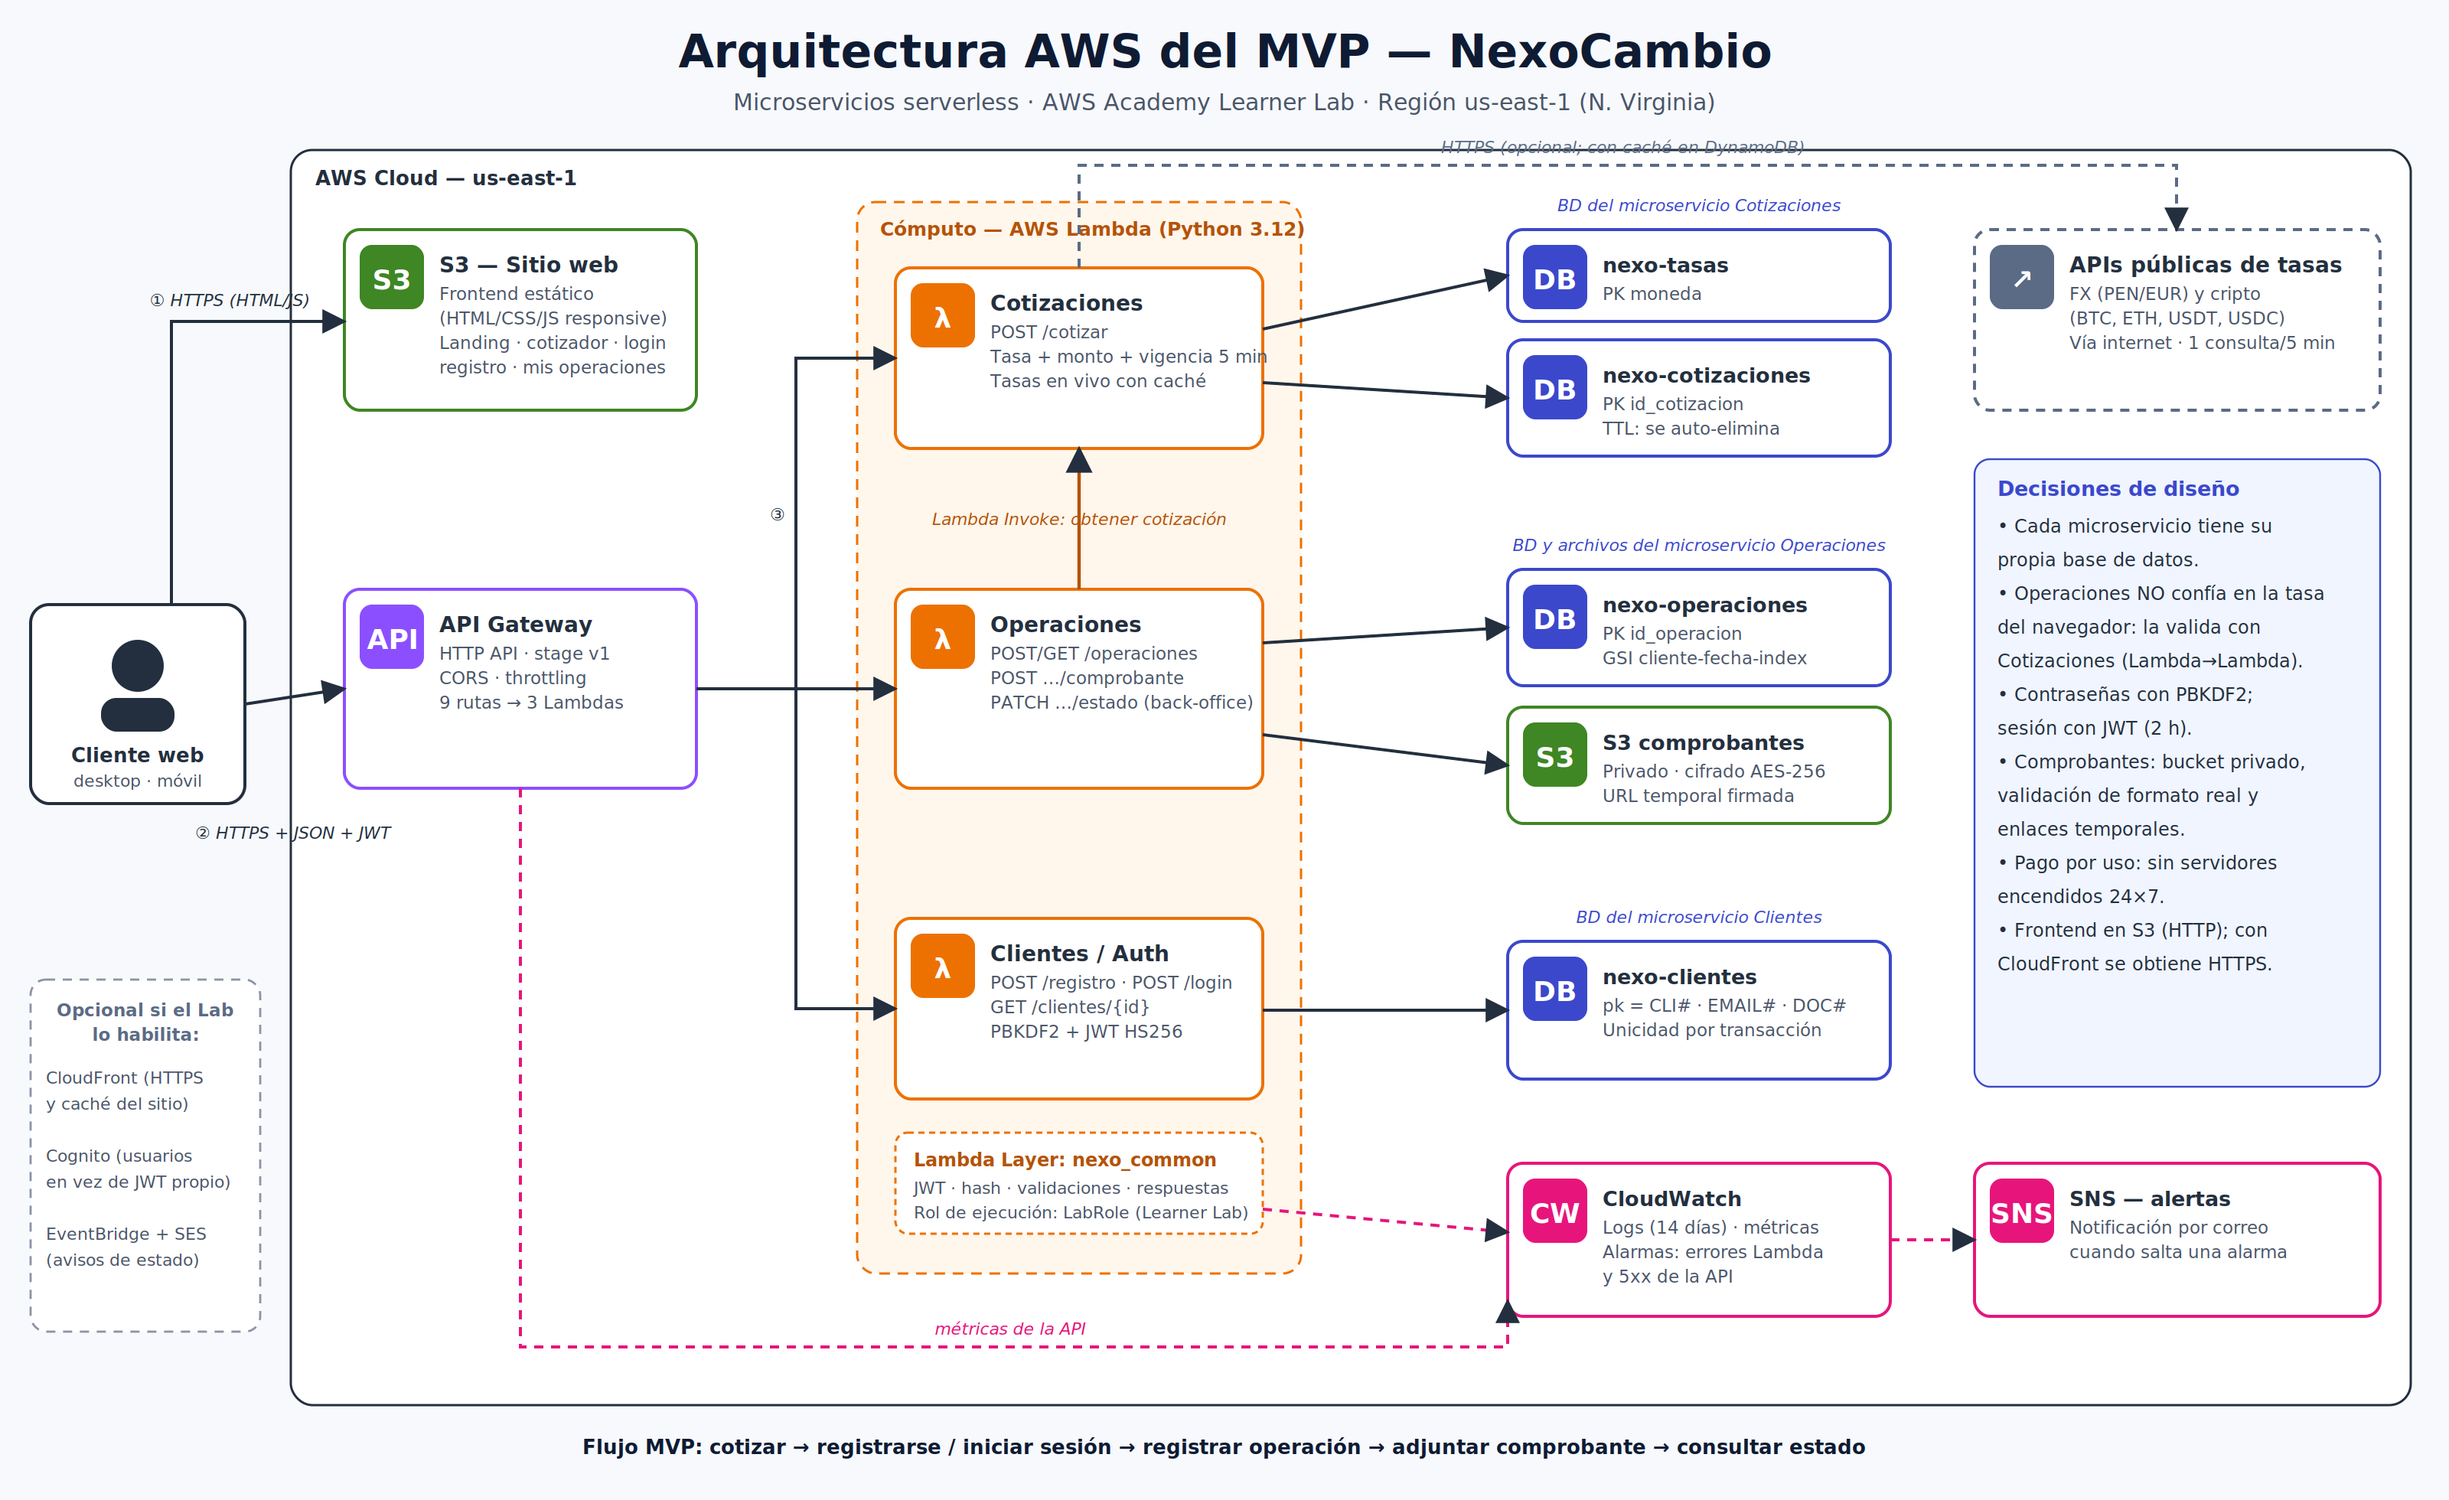
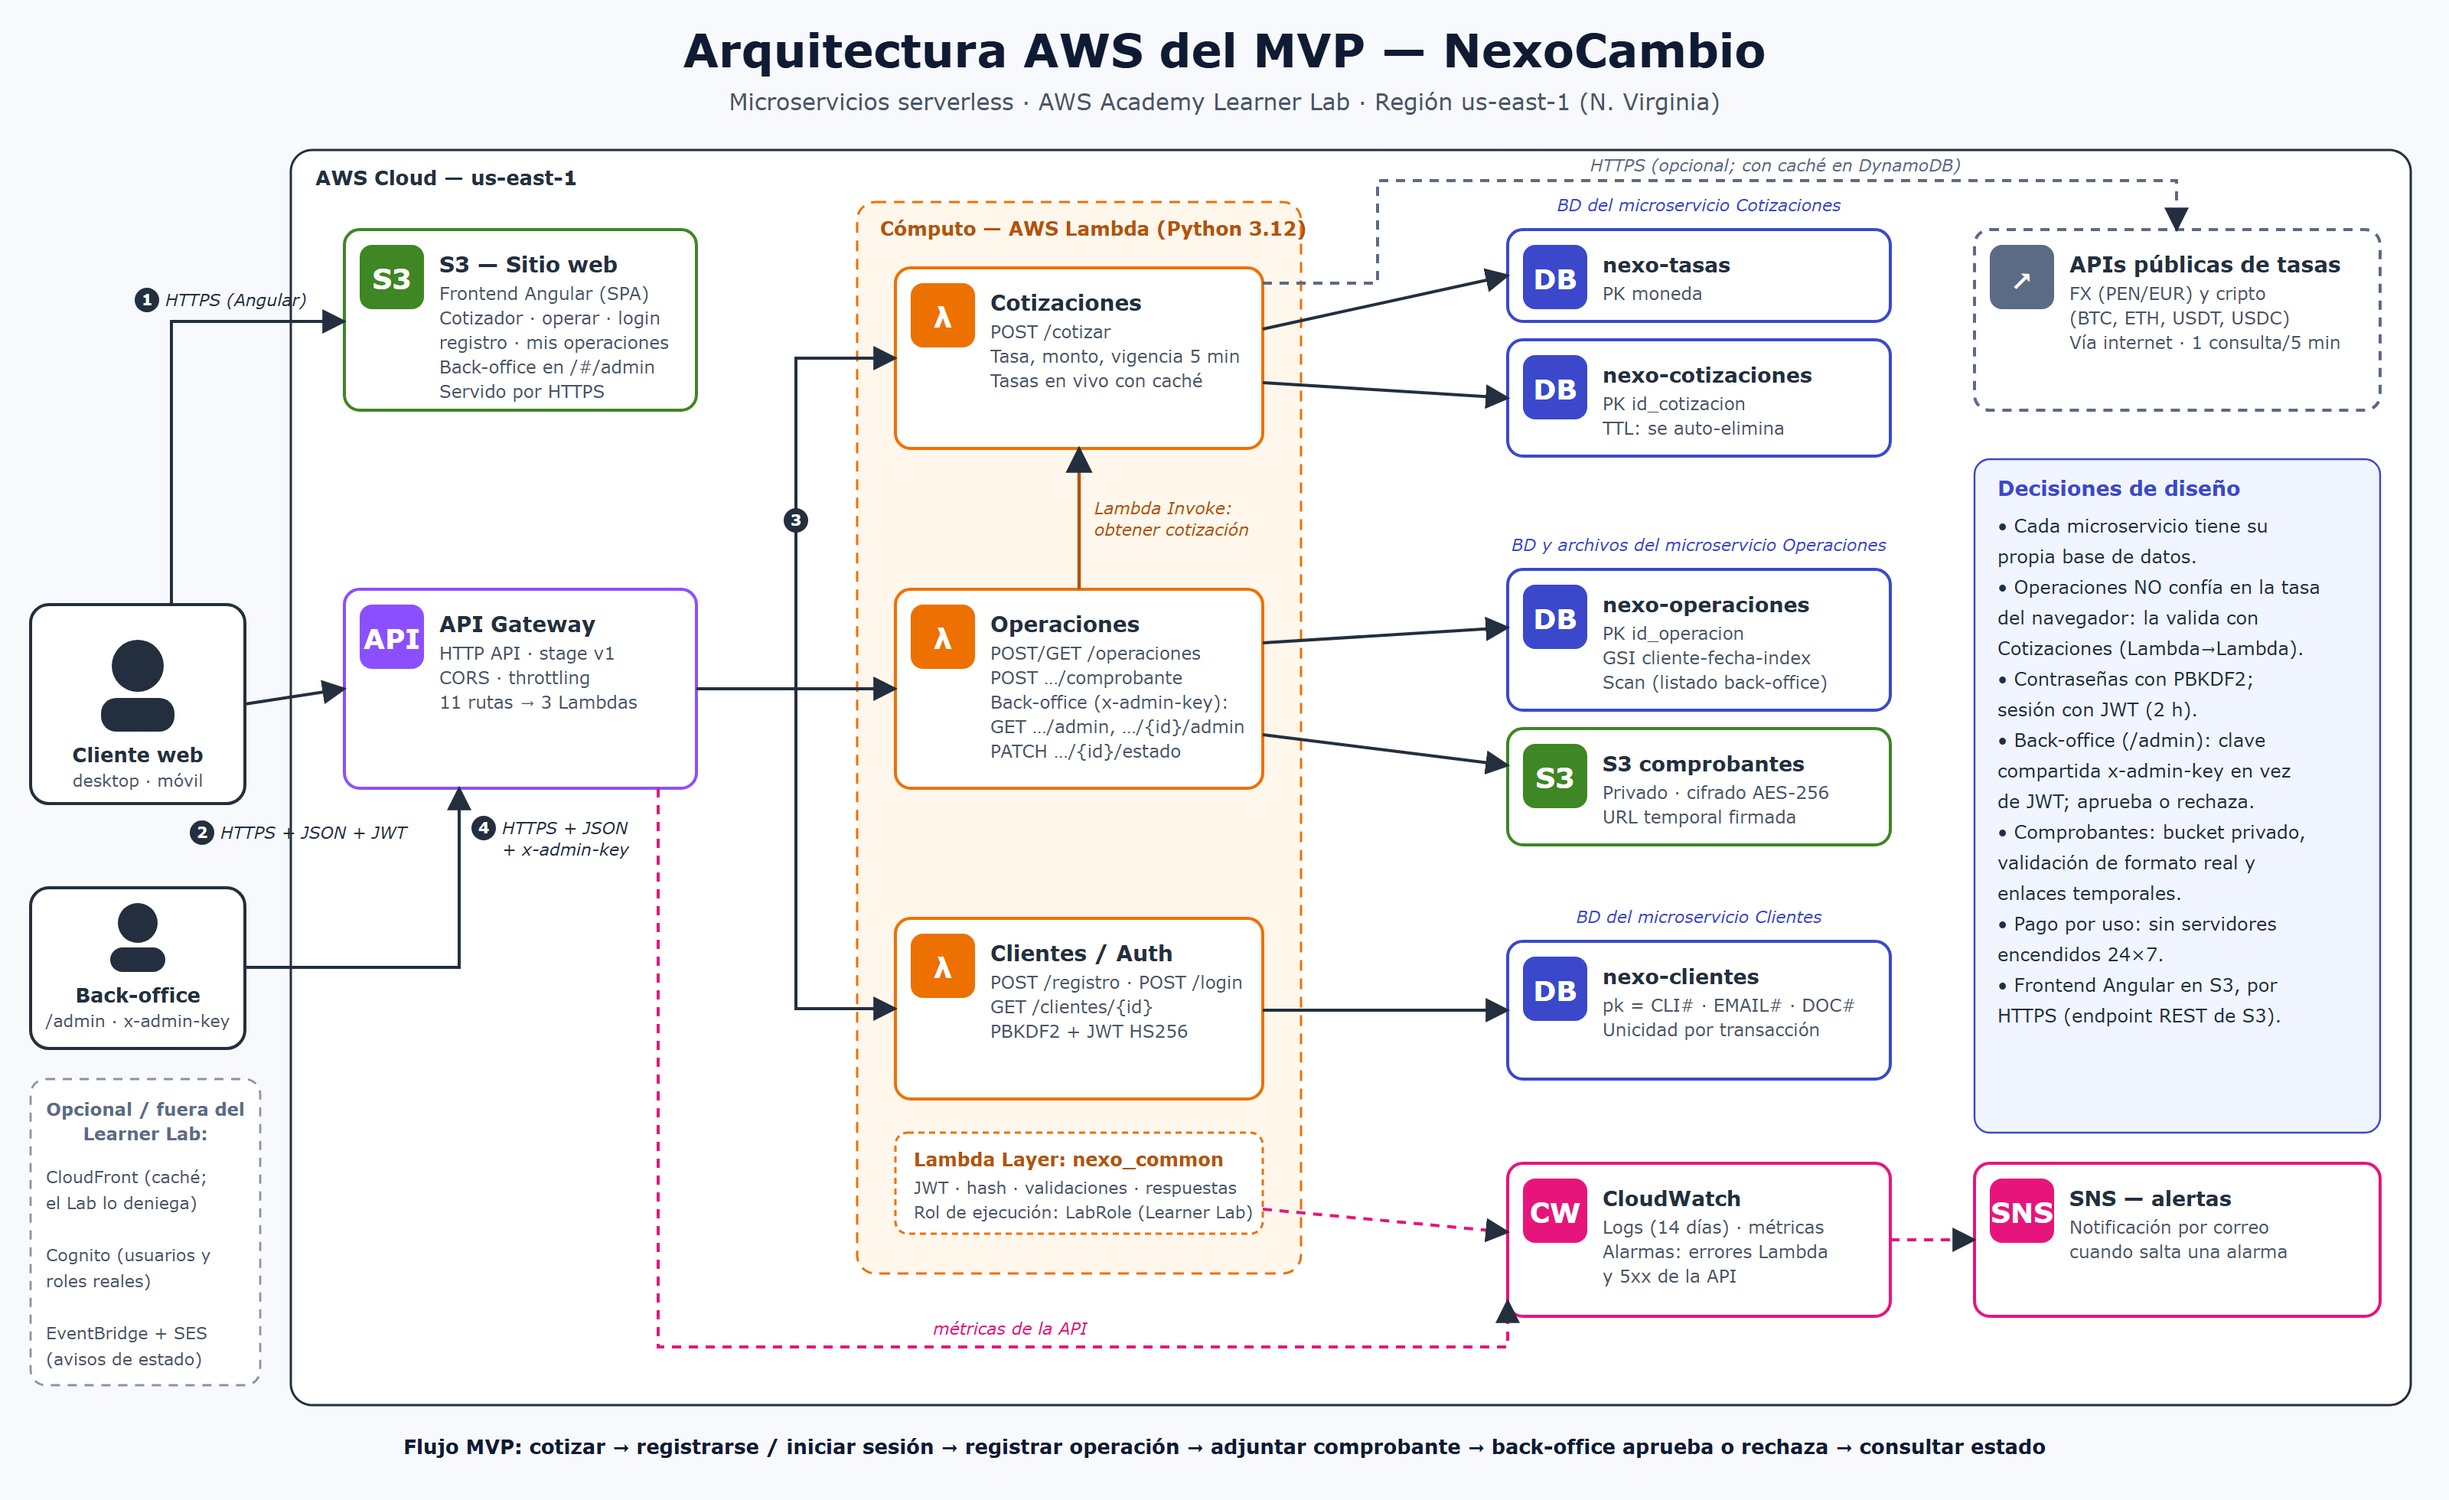
Actualizar el diagrama de arquitectura con el back-office, el frontend Angular y HTTPS
Añade el actor Back-office (x-admin-key) y sus rutas admin en Operaciones (11 rutas en
total, antes 9), describe el sitio como app Angular servida por HTTPS desde S3 y deja
CloudFront como opcional denegado en el Learner Lab. Numeración con insignias SVG (los
glifos ①-④ no salen en todas las fuentes) y se corrigen solapes del diagrama anterior.

diff --git a/docs/generar_diagrama.py b/docs/generar_diagrama.py
@@ -7,11 +7,17 @@ out = []
 def a(s): out.append(s)
 
 COL = {"lambda": "#ED7100", "api": "#8C4FFF", "ddb": "#3B48CC", "s3": "#3F8624", "cw": "#E7157B", "ext": "#5B6B85", "user": "#232F3E"}
-FONT = "DejaVu Sans, Verdana, sans-serif"
+FONT = "DejaVu Sans, Verdana, Segoe UI Symbol, sans-serif"
 
-def text(x, y, s, size=13, bold=False, fill="#232F3E", anchor="start", italic=False):
+def text(x, y, s, size=13, bold=False, fill="#232F3E", anchor="start", italic=False, halo=False):
     a(f'<text x="{x}" y="{y}" font-family="{FONT}" font-size="{size}" fill="{fill}" text-anchor="{anchor}"'
-      f'{" font-weight=\"700\"" if bold else ""}{" font-style=\"italic\"" if italic else ""}>{esc(s)}</text>')
+      f'{" font-weight=\"700\"" if bold else ""}{" font-style=\"italic\"" if italic else ""}'
+      f'{" stroke=\"#fff\" stroke-width=\"4\" stroke-linejoin=\"round\" paint-order=\"stroke\"" if halo else ""}>{esc(s)}</text>')
+
+def num(n, x, y):
+    a(f'<circle cx="{x}" cy="{y - 4}" r="8" fill="#232F3E"/>')
+    text(x, y - 0.5, str(n), 10, True, "#fff", "middle")
+
 
 def box(x, y, w, h, kind, glyph, titulo, lineas=(), dash=False, tsize=14):
     c = COL[kind]
@@ -23,11 +29,11 @@ def box(x, y, w, h, kind, glyph, titulo, lineas=(), dash=False, tsize=14):
     for i, l in enumerate(lineas):
         text(x + 62, y + 46 + i * 16, l, 11.5, fill="#4A5568")
 
-def flecha(d, color="#232F3E", dash=False, label=None, lx=0, ly=0, marker=True, w=2):
+def flecha(d, color="#232F3E", dash=False, label=None, lx=0, ly=0, marker=True, w=2, halo=False):
     a(f'<path d="{d}" fill="none" stroke="{color}" stroke-width="{w}"{" stroke-dasharray=\"6 5\"" if dash else ""}'
       f'{" marker-end=\"url(#f)\"" if marker else ""}/>')
     if label:
-        text(lx, ly, label, 11, False, color, "middle", True)
+        text(lx, ly, label, 11, False, color, "middle", True, halo)
 
 a(f'<svg xmlns="http://www.w3.org/2000/svg" width="{W}" height="{H}" viewBox="0 0 {W} {H}">')
 a('<defs><marker id="f" viewBox="0 0 10 10" refX="9" refY="5" markerWidth="8" markerHeight="8" orient="auto-start-reverse">'
@@ -45,34 +51,47 @@ a(f'<rect x="20" y="395" width="140" height="130" rx="12" fill="#fff" stroke="{C
 a(f'<circle cx="90" cy="435" r="17" fill="{COL["user"]}"/><rect x="66" y="456" width="48" height="22" rx="10" fill="{COL["user"]}"/>')
 text(90, 498, "Cliente web", 13, True, anchor="middle"); text(90, 514, "desktop · móvil", 11, False, "#4A5568", "middle")
 
+# Operador de back-office
+a(f'<rect x="20" y="580" width="140" height="105" rx="12" fill="#fff" stroke="{COL["user"]}" stroke-width="2"/>')
+a(f'<circle cx="90" cy="603" r="13" fill="{COL["user"]}"/><rect x="72" y="619" width="36" height="16" rx="8" fill="{COL["user"]}"/>')
+text(90, 655, "Back-office", 13, True, anchor="middle"); text(90, 671, "/admin · x-admin-key", 11, False, "#4A5568", "middle")
+
 # Frontend + API
-box(225, 150, 230, 118, "s3", "S3", "S3 — Sitio web", ["Frontend estático", "(HTML/CSS/JS responsive)", "Landing · cotizador · login", "registro · mis operaciones"], tsize=14)
-box(225, 385, 230, 130, "api", "API", "API Gateway", ["HTTP API · stage v1", "CORS · throttling", "9 rutas → 3 Lambdas"], tsize=14)
-flecha("M112,395 L112,210 L225,210", label="① HTTPS (HTML/JS)", lx=150, ly=200)
-flecha("M160,460 L225,450", label="② HTTPS + JSON + JWT", lx=192, ly=548)
+box(225, 150, 230, 118, "s3", "S3", "S3 — Sitio web", ["Frontend Angular (SPA)", "Cotizador · operar · login", "registro · mis operaciones", "Back-office en /#/admin", "Servido por HTTPS"], tsize=14)
+box(225, 385, 230, 130, "api", "API", "API Gateway", ["HTTP API · stage v1", "CORS · throttling", "11 rutas → 3 Lambdas"], tsize=14)
+flecha("M112,395 L112,210 L225,210")
+num(1, 96, 200); text(108, 200, "HTTPS (Angular)", 11, False, "#232F3E", "start", True)
+flecha("M160,460 L225,450")
+num(2, 132, 548); text(144, 548, "HTTPS + JSON + JWT", 11, False, "#232F3E", "start", True)
+flecha("M160,632 L300,632 L300,515")
+num(4, 316, 545); text(328, 545, "HTTPS + JSON", 11, False, "#232F3E", "start", True)
+text(328, 559, "+ x-admin-key", 11, False, "#232F3E", "start", True)
 
 # Cómputo
 a('<rect x="560" y="132" width="290" height="700" rx="12" fill="#FFF6EC" stroke="#ED7100" stroke-width="1.5" stroke-dasharray="7 5"/>')
 text(575, 154, "Cómputo — AWS Lambda (Python 3.12)", 12.5, True, "#B45309")
-box(585, 175, 240, 118, "lambda", "λ", "Cotizaciones", ["POST /cotizar", "Tasa + monto + vigencia 5 min", "Tasas en vivo con caché"])
-box(585, 385, 240, 130, "lambda", "λ", "Operaciones", ["POST/GET /operaciones", "POST …/comprobante", "PATCH …/estado (back-office)"])
+box(585, 175, 240, 118, "lambda", "λ", "Cotizaciones", ["POST /cotizar", "Tasa, monto, vigencia 5 min", "Tasas en vivo con caché"])
+box(585, 385, 240, 130, "lambda", "λ", "Operaciones", ["POST/GET /operaciones", "POST …/comprobante", "Back-office (x-admin-key):", "GET …/admin, …/{id}/admin", "PATCH …/{id}/estado"])
 box(585, 600, 240, 118, "lambda", "λ", "Clientes / Auth", ["POST /registro · POST /login", "GET /clientes/{id}", "PBKDF2 + JWT HS256"])
 a('<rect x="585" y="740" width="240" height="66" rx="8" fill="#fff" stroke="#ED7100" stroke-width="1.5" stroke-dasharray="4 3"/>')
 text(597, 762, "Lambda Layer: nexo_common", 12, True, "#B45309"); text(597, 780, "JWT · hash · validaciones · respuestas", 11, fill="#4A5568")
 text(597, 796, "Rol de ejecución: LabRole (Learner Lab)", 11, fill="#4A5568")
 
 # API → Lambdas
-flecha("M455,450 L520,450 L520,234 L585,234", label="③", lx=508, ly=340)
+flecha("M455,450 L520,450 L520,234 L585,234")
+num(3, 520, 344)
 flecha("M455,450 L585,450", marker=True)
 flecha("M455,450 L520,450 L520,659 L585,659")
 # Invocación interna
-flecha("M705,385 L705,293", "#B45309", label="Lambda Invoke: obtener cotización", lx=705, ly=343, w=2.2)
+flecha("M705,385 L705,293", "#B45309", w=2.2)
+text(715, 336, "Lambda Invoke:", 11, False, "#B45309", "start", True)
+text(715, 350, "obtener cotización", 11, False, "#B45309", "start", True)
 
 # Datos
 box(985, 150, 250, 60, "ddb", "DB", "nexo-tasas", ["PK moneda"], tsize=13.5)
 box(985, 222, 250, 76, "ddb", "DB", "nexo-cotizaciones", ["PK id_cotizacion", "TTL: se auto-elimina"], tsize=13.5)
-box(985, 372, 250, 76, "ddb", "DB", "nexo-operaciones", ["PK id_operacion", "GSI cliente-fecha-index"], tsize=13.5)
-box(985, 462, 250, 76, "s3", "S3", "S3 comprobantes", ["Privado · cifrado AES-256", "URL temporal firmada"], tsize=13.5)
+box(985, 372, 250, 92, "ddb", "DB", "nexo-operaciones", ["PK id_operacion", "GSI cliente-fecha-index", "Scan (listado back-office)"], tsize=13.5)
+box(985, 476, 250, 76, "s3", "S3", "S3 comprobantes", ["Privado · cifrado AES-256", "URL temporal firmada"], tsize=13.5)
 box(985, 615, 250, 90, "ddb", "DB", "nexo-clientes", ["pk = CLI# · EMAIL# · DOC#", "Unicidad por transacción"], tsize=13.5)
 flecha("M825,215 L985,180"); flecha("M825,250 L985,260")
 flecha("M825,420 L985,410"); flecha("M825,480 L985,500")
@@ -83,30 +102,31 @@ text(1110, 603, "BD del microservicio Clientes", 11, False, "#3B48CC", "middle",
 
 # Fuente externa
 box(1290, 150, 265, 118, "ext", "↗", "APIs públicas de tasas", ["FX (PEN/EUR) y cripto", "(BTC, ETH, USDT, USDC)", "Vía internet · 1 consulta/5 min"], dash=True)
-flecha("M705,175 L705,108 L1422,108 L1422,150", "#5B6B85", dash=True, label="HTTPS (opcional; con caché en DynamoDB)", lx=1060, ly=100)
+flecha("M825,185 L900,185 L900,118 L1422,118 L1422,150", "#5B6B85", dash=True, label="HTTPS (opcional; con caché en DynamoDB)", lx=1160, ly=112)
 
 # Monitoreo
 box(985, 760, 250, 100, "cw", "CW", "CloudWatch", ["Logs (14 días) · métricas", "Alarmas: errores Lambda", "y 5xx de la API"], tsize=13.5)
 box(1290, 760, 265, 100, "cw", "SNS", "SNS — alertas", ["Notificación por correo", "cuando salta una alarma"], tsize=13.5)
 flecha("M825,790 L985,805", "#E7157B", dash=True)
 flecha("M1235,810 L1290,810", "#E7157B", dash=True)
-flecha("M340,515 L340,880 L985,880 L985,850", "#E7157B", dash=True, label="métricas de la API", lx=660, ly=872)
+flecha("M430,515 L430,880 L985,880 L985,850", "#E7157B", dash=True, label="métricas de la API", lx=660, ly=872)
 
 # Notas
-a('<rect x="1290" y="300" width="265" height="410" rx="10" fill="#F0F5FF" stroke="#3B48CC" stroke-width="1.2"/>')
+a('<rect x="1290" y="300" width="265" height="440" rx="10" fill="#F0F5FF" stroke="#3B48CC" stroke-width="1.2"/>')
 text(1305, 324, "Decisiones de diseño", 13.5, True, "#3B48CC")
 notas = ["• Cada microservicio tiene su", "  propia base de datos.", "• Operaciones NO confía en la tasa", "  del navegador: la valida con", "  Cotizaciones (Lambda→Lambda).",
-         "• Contraseñas con PBKDF2;", "  sesión con JWT (2 h).", "• Comprobantes: bucket privado,", "  validación de formato real y", "  enlaces temporales.",
-         "• Pago por uso: sin servidores", "  encendidos 24×7.", "• Frontend en S3 (HTTP); con", "  CloudFront se obtiene HTTPS."]
+         "• Contraseñas con PBKDF2;", "  sesión con JWT (2 h).", "• Back-office (/admin): clave", "  compartida x-admin-key en vez", "  de JWT; aprueba o rechaza.",
+         "• Comprobantes: bucket privado,", "  validación de formato real y", "  enlaces temporales.",
+         "• Pago por uso: sin servidores", "  encendidos 24×7.", "• Frontend Angular en S3, por", "  HTTPS (endpoint REST de S3)."]
 for i, n in enumerate(notas):
-    text(1305, 348 + i * 22, n, 12, fill="#232F3E")
+    text(1305, 348 + i * 20, n, 12, fill="#232F3E")
 
 # Opcional
-a('<rect x="20" y="640" width="150" height="230" rx="10" fill="#fff" stroke="#8A94A6" stroke-width="1.4" stroke-dasharray="6 5"/>')
-text(95, 664, "Opcional si el Lab", 11.5, True, "#5B6B85", "middle"); text(95, 680, "lo habilita:", 11.5, True, "#5B6B85", "middle")
-for i, l in enumerate(["CloudFront (HTTPS", "y caché del sitio)", "", "Cognito (usuarios", "en vez de JWT propio)", "", "EventBridge + SES", "(avisos de estado)"]):
-    text(30, 708 + i * 17, l, 11, fill="#4A5568")
-text(W / 2, 950, "Flujo MVP: cotizar → registrarse / iniciar sesión → registrar operación → adjuntar comprobante → consultar estado", 13, True, "#0E1B33", "middle")
+a('<rect x="20" y="705" width="150" height="200" rx="10" fill="#fff" stroke="#8A94A6" stroke-width="1.4" stroke-dasharray="6 5"/>')
+text(95, 729, "Opcional / fuera del", 11.5, True, "#5B6B85", "middle"); text(95, 745, "Learner Lab:", 11.5, True, "#5B6B85", "middle")
+for i, l in enumerate(["CloudFront (caché;", "el Lab lo deniega)", "", "Cognito (usuarios y", "roles reales)", "", "EventBridge + SES", "(avisos de estado)"]):
+    text(30, 773 + i * 17, l, 11, fill="#4A5568")
+text(W / 2, 950, "Flujo MVP: cotizar → registrarse / iniciar sesión → registrar operación → adjuntar comprobante → back-office aprueba o rechaza → consultar estado", 13, True, "#0E1B33", "middle")
 a('</svg>')
 open("docs/arquitectura_nexocambio.svg", "w", encoding="utf-8").write("\n".join(out))
 import cairosvg
